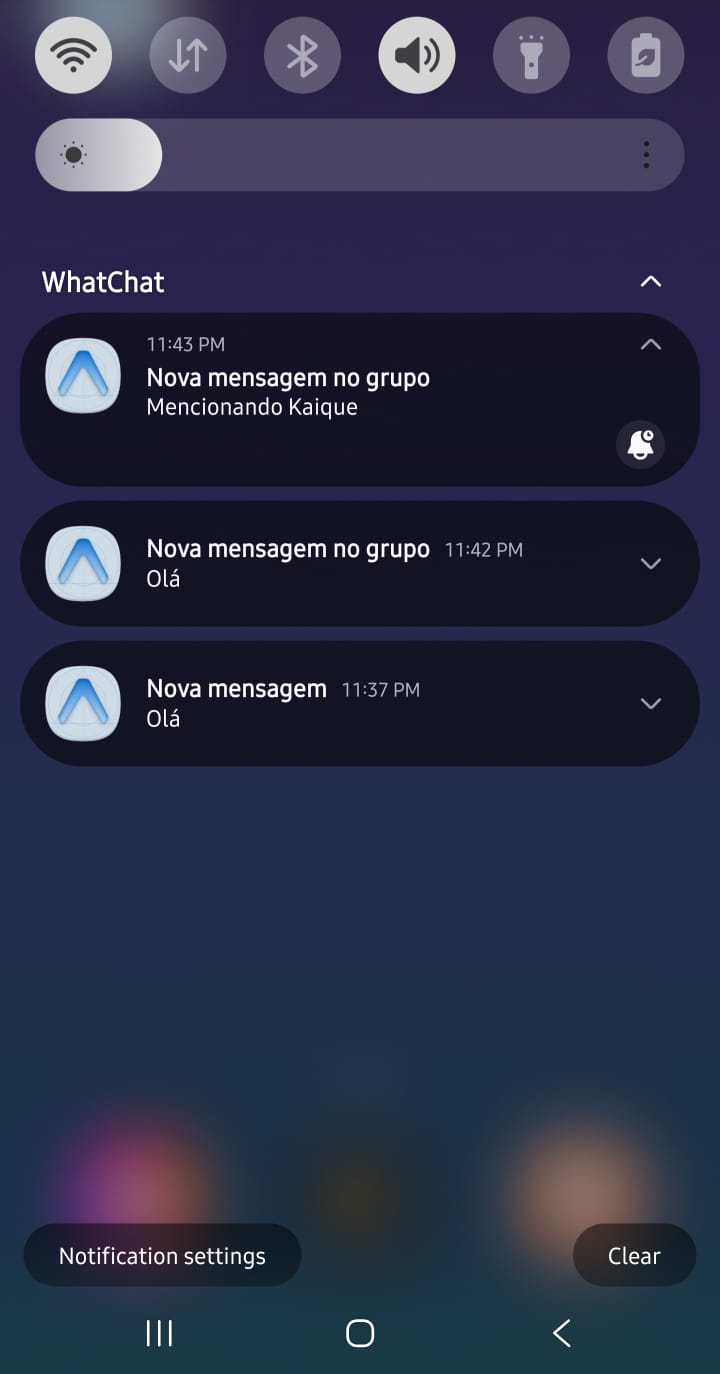
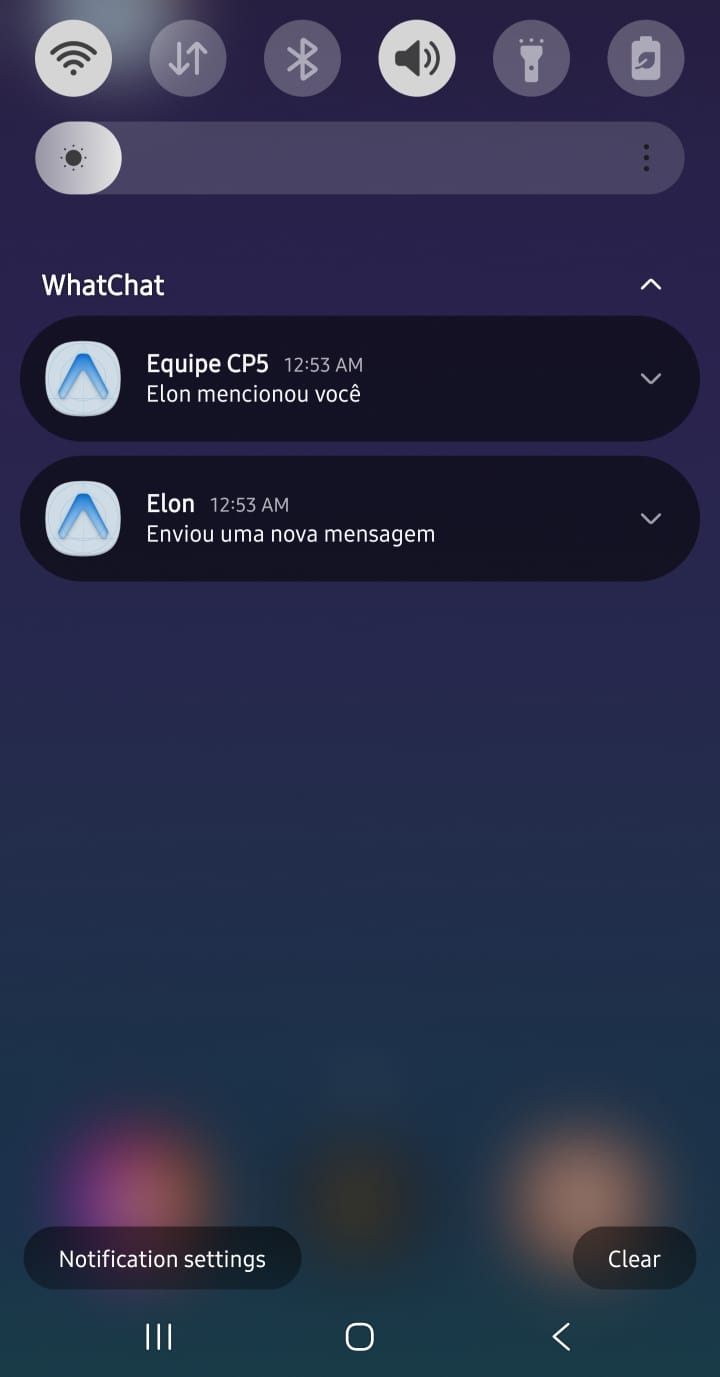
Atualiza evidencia de notificacao com o novo formato sem o texto da mensagem

diff --git a/README.md b/README.md
@@ -250,7 +250,7 @@ O limite (`memberLimit`) é validado em duas camadas:
 
 ### Evidência de notificação recebida (Android, dispositivo físico)
 
-Notificações recebidas pelo development build em um aparelho Android: mensagem individual, mensagem geral no grupo (política `all_group_messages`) e mensagem com menção. Ao tocar na notificação, o app abre a conversa correspondente.
+Notificações recebidas pelo development build em um aparelho Android: uma mensagem individual ("Elon · Enviou uma nova mensagem") e uma menção no grupo ("Equipe CP5 · Elon mencionou você"), sem expor o texto das mensagens (veja [Conteúdo da notificação](#conteúdo-da-notificação)). Ao tocar na notificação, o app abre a conversa correspondente. As quatro políticas de grupo foram testadas no aparelho.
 
 <p>
   <img src="docs/screenshots/notificacoes-recebidas.jpg" alt="Notificações do WhatChat na central de notificações do Android" width="260" />
